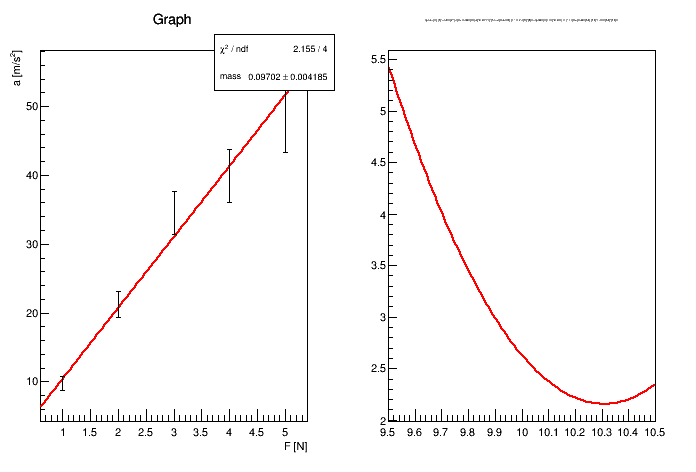
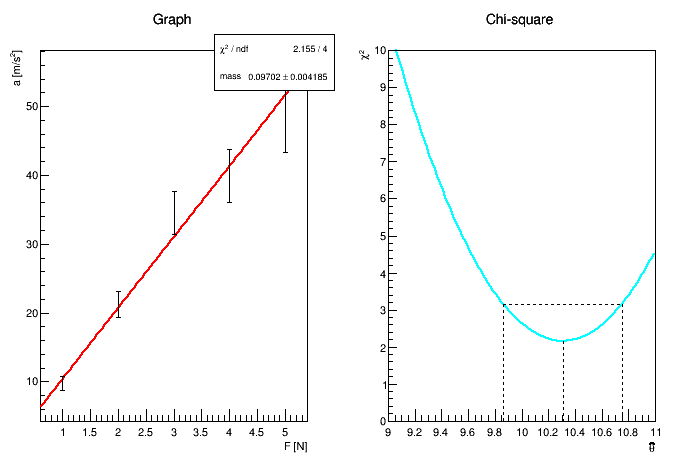
Vjezbe_10

diff --git a/Vjezbe_10/Analyzer.cpp b/Vjezbe_10/Analyzer.cpp
@@ -15,6 +15,7 @@
 #include <TMath.h>
 #include <TGraphErrors.h>
 #include <TF1.h>
+#include <TLine.h>
 using namespace std;
 
 Analyzer::Analyzer()
@@ -32,42 +33,60 @@ void Analyzer::Draw()
 	Double_t a_error[5]={1.0,1.9,3.1,3.9,5.1};
 	Double_t F[5]={1.0,2.0,3.0,4.0,5.0}; 	
 	Double_t F_error[5]={0.0,0.0,0.0,0.0,0.0};
-	Double_t theta,min,sigma_lower, sigma_upper;
+	Double_t theta,min,sigma_lower, sigma_upper,mass,x1,x2;
 	TF1* fit;
-	fit=new TF1("fit", "1/[0]*x",0,6);
+	fit=new TF1("fit", "1/[0]*x",0,10);
 	fit->SetParameter(0,0.1);
 	fit->SetParName(0,"mass");
 
 	auto gr = new TGraphErrors(5,F,a,F_error,a_error);
 	gr->GetXaxis()->SetTitle("F [N]");
 	gr->GetYaxis()->SetTitle("a [m/s^{2}]");
-	gr->Draw("AP");
 	gr->Fit(fit);
-	
+	gr->Draw("AP");
 	
 	canvas->cd(2);
 
 	TF1* chi_square;
-	chi_square=new TF1("chi_square","(pow(([0]-[1]*x),2)/([2]*[2]))+(pow(([3]-[4]*x),2)/([5]*[5]))+(pow(([6]-[7]*x),2)/([8]*[8]))+(pow(([9]-[10]*x),2)/([11]*[11]))+(pow(([12]-[13]*x),2)/([14]*[14]))",9.5,10.5);
+	chi_square=new TF1("chi_square","(pow(([0]-[1]*x),2)/([2]*[2]))+(pow(([3]-[4]*x),2)/([5]*[5]))+(pow(([6]-[7]*x),2)/([8]*[8]))+(pow(([9]-[10]*x),2)/([11]*[11]))+(pow(([12]-[13]*x),2)/([14]*[14]))",9,11);
 	for(int i=0;i<5*5;i+=3)
 	{
 		chi_square->SetParameter(i,a[i/3]);
 		chi_square->SetParameter(i+1,F[i/3]);
 		chi_square->SetParameter(i+2,a_error[i/3]);
 	}
-
-	theta=chi_square->GetMinimumX(8,11,1.E-10,100,false);
-   	min=chi_square->GetMinimum(8,11,1.E-10,100,false);
-    	sigma_lower=theta-chi_square->GetX(min+1,8,11,1.E-10,100,false); 
-    	sigma_upper=chi_square->GetX(min+1,8,11,1.E-10,100,false)-theta;
 	
-	auto l=new TLine();
+	chi_square->SetLineColor(kCyan);
+    	chi_square->GetYaxis()->SetRangeUser(0, 10.0);
+    	chi_square->SetTitle("Chi-square; #hat{#theta}; #chi^{2}");
 	
 	chi_square->Draw();
-	double m=1/theta;
-	cout << "chi_squared\t\t\t\t" << theta << "\t\t- " << sigma_lower/(theta*theta) << "    + " << sigma_upper/(theta*theta) << endl;	
-	cout<<"m="<<m<<endl;
 
+	min=chi_square->GetMinimum();
+	theta=chi_square->GetMinimumX();
+	mass=1/theta;
+	cout << "mass = " << mass <<endl;
+	
+	x1 = chi_square->GetX(min + 1.0, 6.0, chi_square->GetMinimumX() - 0.0001);
+        x2 = chi_square->GetX(min + 1.0, chi_square->GetMinimumX() + 0.0001, 14.0);
+
+    	sigma_lower = chi_square->GetMinimumX() - x1;
+    	sigma_upper = x2 - chi_square->GetMinimumX();
+    	cout << "Sigma_lower = " << -1.0*(sigma_lower/pow(theta, 2)) <<endl;
+    	cout << "Sigma_upper = " << 1.0*(sigma_upper/pow(theta, 2)) <<endl;
+
+	auto l1 = new TLine(x1, min + 1.0, x2, min + 1.0);
+    	auto l2 = new TLine(theta, 0, theta, min);
+    	auto l3 = new TLine(x1, 0.0, x1, min + 1.0);
+    	auto l4 = new TLine(x2, 0.0, x2, min + 1.0);
+    	l1->SetLineStyle(kDashed);
+    	l2->SetLineStyle(kDashed);
+    	l3->SetLineStyle(kDashed);
+    	l4->SetLineStyle(kDashed);
+    	l1->Draw();
+    	l2->Draw();
+    	l3->Draw();
+    	l4->Draw();
 	
 
 
